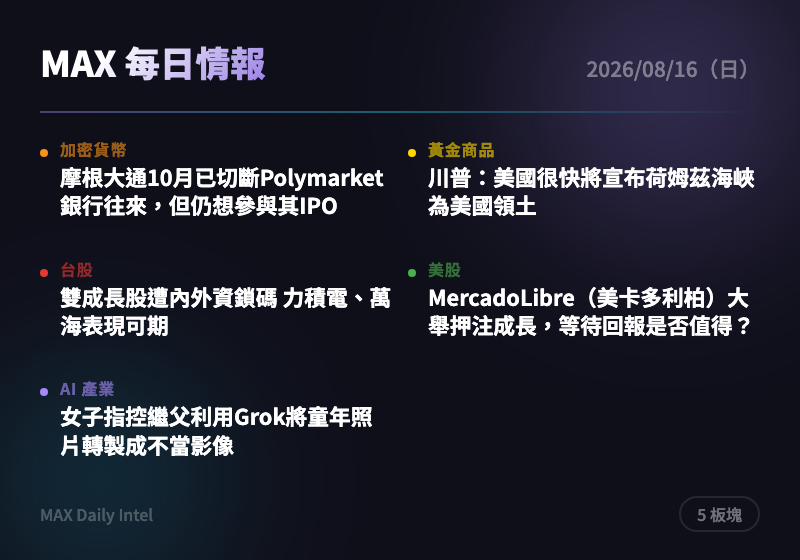
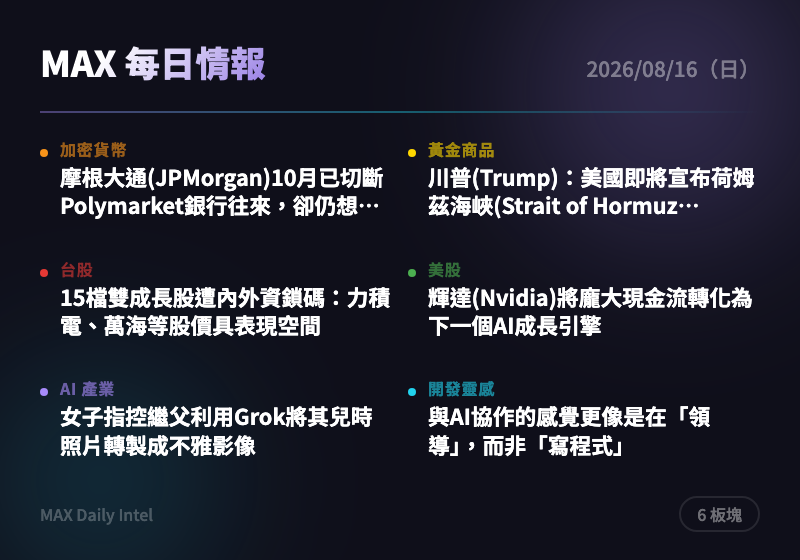
intel: 2026-08-16 每日情報自動生成

diff --git a/docs/2026-08-16.html b/docs/2026-08-16.html
@@ -295,7 +295,7 @@
     <h1>每日情報站</h1>
     <div class="date">2026 年 8 月 16 日（日）</div>
     <div class="stats">
-      <span>10 則情報</span>
+      <span>11 則情報</span>
       <span>7 大板塊</span>
     </div>
   </header>
@@ -318,15 +318,15 @@
     </div>
     <div class="news-card">
       <div class="source">The Block</div>
-      <h3><a href="https://www.theblock.co/news/business/2026-08-15-jpmorgan-cut-polymarkets-banking-ties-in-october-but-still-wants-a-role-in-a-potential-ipo-ft-411929" target="_blank" rel="noopener">摩根大通10月已切斷Polymarket銀行往來，但仍想參與其IPO</a></h3>
-      <div class="summary">英國《金融時報》報導，JPMorgan（摩根大通）去年10月已終止與預測市場平台Polymarket的銀行往來，該公司帳戶已轉往另一家未具名銀行。儘管如此，摩根大通仍表示與Polymarket維持「密切、活躍的關係」，並希望在其潛在IPO中扮演角色，反映傳統金融機構對監管風險保持謹慎但不願放棄加密新創的承銷商機。可留意Polymarket後續IPO進程及其銀行合作方是否曝光。</div>
-      <div class="tags"><span class="tag">加密貨幣</span><span class="tag">預測市場</span><span class="tag">銀行業</span><span class="tag">IPO</span></div>
+      <h3><a href="https://www.theblock.co/news/business/2026-08-15-jpmorgan-cut-polymarkets-banking-ties-in-october-but-still-wants-a-role-in-a-potential-ipo-ft-411929" target="_blank" rel="noopener">摩根大通(JPMorgan)10月已切斷Polymarket銀行往來，卻仍想參與其潛在IPO</a></h3>
+      <div class="summary">摩根大通去年10月已終止與預測市場平台Polymarket的銀行合作關係，但據FT報導，雙方仍維持「密切、活躍的關係」，且大通有意參與其未來IPO。這顯示傳統金融機構對加密/預測市場業務採取「表面切割、暗中布局」的雙軌策略，反映監管壓力與商業利益的拉扯。建議關注預測市場合法化進程及大型銀行後續動作，作為觀察TradFi與加密融合速度的指標。</div>
+      <div class="tags"><span class="tag">預測市場</span><span class="tag">銀行業</span><span class="tag">IPO</span><span class="tag">監管</span></div>
     </div>
     <div class="news-card">
-      <div class="source">CoinTelegraph</div>
-      <h3><a href="https://cointelegraph.com/news/tokenized-stock-holders-double-to-13m-as-activity-grows?utm_source=rss_feed&utm_medium=rss&utm_campaign=rss_partner_inbound" target="_blank" rel="noopener">代幣化股票持有人數月增逾一倍，月交易量暴增179%</a></h3>
-      <div class="summary">過去一個月代幣化股票持有人數達131萬人，月轉帳量激增179%至231.3億美元，分配價值也成長5.9%至23.8億美元。這顯示華爾街資產上鏈（RWA）趨勢正加速滲透，機構與散戶對鏈上證券的需求快速攀升。可關注哪些發行商（如Robinhood、Kraken等）在此波成長中受惠最大。</div>
-      <div class="tags"><span class="tag">代幣化</span><span class="tag">RWA</span><span class="tag">加密貨幣</span><span class="tag">傳統金融</span></div>
+      <div class="source">CoinDesk</div>
+      <h3><a href="https://www.coindesk.com/policy/2026/08/15/why-the-world-s-second-largest-bitcoin-mining-power-is-shutting-down-rigs-in-its-capital-city" target="_blank" rel="noopener">全球第二大比特幣挖礦重鎮首都突傳關閉礦機</a></h3>
+      <div class="summary">報導指出全球第二大比特幣算力來源國的首都城市正在關閉挖礦設備。此舉可能牽動比特幣全網算力分布與挖礦成本結構，若涉及能源政策或地緣風險，恐對礦工營運與比特幣礦股帶來壓力。建議關注後續是否為能源短缺或政策打壓所致，評估對相關礦業股（如RIOT等）的連鎖影響。</div>
+      <div class="tags"><span class="tag">比特幣</span><span class="tag">挖礦</span><span class="tag">能源政策</span><span class="tag">地緣政治</span></div>
     </div>
   </section>
 
@@ -338,15 +338,15 @@
     </div>
     <div class="news-card">
       <div class="source">ForexLive</div>
-      <h3><a href="https://investinglive.com/news/trump-pretty-soon-will-be-declaring-strait-of-hormuz-territory-of-the-us/" target="_blank" rel="noopener">川普：美國很快將宣布荷姆茲海峽為美國領土</a></h3>
-      <div class="summary">川普表示美國即將宣布荷姆茲海峽（Strait of Hormuz）為美國領土，警告伊朗若採取侵略行動將遭受百倍反擊，並稱只有美國能決定船隻能否通過該海峽、封鎖行動「無法阻擋」。此番強硬地緣政治言論可能推升油價及避險資產（黃金）需求，並加劇中東緊張情勢。建議密切關注原油價格與黃金避險買盤反應，留意事態是否進一步升溫。</div>
-      <div class="tags"><span class="tag">地緣政治</span><span class="tag">原油</span><span class="tag">黃金避險</span><span class="tag">中東局勢</span></div>
+      <h3><a href="https://investinglive.com/news/trump-pretty-soon-will-be-declaring-strait-of-hormuz-territory-of-the-us/" target="_blank" rel="noopener">川普(Trump)：美國即將宣布荷姆茲海峽(Strait of Hormuz)為其領土</a></h3>
+      <div class="summary">川普表示美國即將宣稱荷姆茲海峽為其領土，並警告若伊朗採取侵略行動，美方將以百倍力道回應，同時暗示會對伊朗展開強力經濟制裁。此言論若付諸實行，將大幅升高中東地緣政治風險，直接衝擊全球原油運輸與油價，並可能推升避險需求帶動黃金走高。建議密切關注後續美伊局勢發展，留意原油與黃金的避險資金流向。</div>
+      <div class="tags"><span class="tag">地緣政治</span><span class="tag">原油</span><span class="tag">黃金</span><span class="tag">美伊關係</span></div>
     </div>
     <div class="news-card">
       <div class="source">ForexLive</div>
-      <h3><a href="https://investinglive.com/news/us-august-prelim-umich-consumer-sentiment-51-0-vs-54-5-expected/" target="_blank" rel="noopener">美國8月密大消費者信心初值51.0，遜於預期54.5</a></h3>
-      <div class="summary">美國8月密西根大學消費者信心指數初值僅51.0，遠低於預期的54.5及前值55.2，其中現況與預期分項雙雙走弱，同時1年期通膨預期升至4.3%。市場普遍認為此調查已高度政治化、對消費支出預測力有限，但通膨預期仍可能牽動聯準會決策考量。建議將此數據視為情緒面參考而非交易主軸，重點仍放在正式零售銷售與就業數據。</div>
-      <div class="tags"><span class="tag">美國經濟</span><span class="tag">消費者信心</span><span class="tag">通膨預期</span><span class="tag">聯準會</span></div>
+      <h3><a href="https://investinglive.com/news/us-august-prelim-umich-consumer-sentiment-51-0-vs-54-5-expected/" target="_blank" rel="noopener">美國8月密西根大學(UMich)消費者信心初值降至51.0，遠低於預期54.5</a></h3>
+      <div class="summary">8月密西根大學消費者信心初值大幅不及預期，前值55.2，現況與預期分項均明顯走弱，同時1年期通膨預期升至4.3%。此數據顯示美國消費者對經濟前景轉趨悲觀，但市場普遍認為該調查已高度政治化、預測力有限，聯準會決策參考價值下降。建議不宜過度解讀單一數據，仍需搭配零售銷售與就業數據綜合判斷消費動能。</div>
+      <div class="tags"><span class="tag">消費者信心</span><span class="tag">通膨</span><span class="tag">聯準會</span><span class="tag">美國經濟</span></div>
     </div>
   </section>
 
@@ -354,19 +354,13 @@
     <div class="sector-header">
       <div class="indicator" style="background:#e53935"></div>
       <h2>&#x1f1f9;&#x1f1fc; 台股</h2>
-      <span class="badge">2 則</span>
+      <span class="badge">1 則</span>
     </div>
     <div class="news-card">
       <div class="source">經濟日報</div>
-      <h3><a href="https://money.udn.com/money/story/5607/9693969" target="_blank" rel="noopener">雙成長股遭內外資鎖碼 力積電、萬海表現可期</a></h3>
-      <div class="summary">上市櫃公司7月營收與第2季財報陸續公布，其中力積電、萬海、至上等個股同時繳出7月營收月增及第2季獲利成長的雙成長表現，並獲三大法人買超鎖碼。這類「營收獲利雙升＋法人加碼」的標的，通常代表基本面轉強且籌碼穩定，下半年續航力值得留意。可作為波段布局的優先觀察名單。</div>
-      <div class="tags"><span class="tag">台股</span><span class="tag">法人籌碼</span><span class="tag">財報</span><span class="tag">半導體</span></div>
-    </div>
-    <div class="news-card">
-      <div class="source">經濟日報</div>
-      <h3><a href="https://money.udn.com/money/story/8543/9694014" target="_blank" rel="noopener">AI伺服器鏈成長強勁 台股長線主打星浮現</a></h3>
-      <div class="summary">台股近期反彈突破季線，市場氛圍由悲觀轉為審慎樂觀，法人建議聚焦「實質獲利增長」族群，AI伺服器、半導體與高階電子零組件供應鏈仍為市場主軸。操作策略建議分批布局、拉回加碼，以時間換取產業趨勢空間，避免追高。可鎖定AI供應鏈中基本面確立轉強的個股逢低分批進場。</div>
-      <div class="tags"><span class="tag">台股</span><span class="tag">AI伺服器</span><span class="tag">半導體</span><span class="tag">投資策略</span></div>
+      <h3><a href="https://money.udn.com/money/story/5607/9693969" target="_blank" rel="noopener">15檔雙成長股遭內外資鎖碼：力積電、萬海等股價具表現空間</a></h3>
+      <div class="summary">上市櫃公司7月營收與第2季財報陸續公布，其中力積電、萬海、至上等個股同時繳出營收月增、獲利季增的「雙成長」成績單，並獲三大法人買超鎖碼，下半年獲利動能可期。此類「基本面+籌碼面」雙重支撐的個股，在台股反彈格局中具備較高的持續表現機會。建議可留意這類法人鎖碼、獲利成長明確的個股逢拉回布局。</div>
+      <div class="tags"><span class="tag">台股</span><span class="tag">法人動向</span><span class="tag">半導體</span><span class="tag">航運</span></div>
     </div>
   </section>
 
@@ -378,15 +372,15 @@
     </div>
     <div class="news-card">
       <div class="source">Yahoo Finance</div>
-      <h3><a href="https://finance.yahoo.com/markets/stocks/articles/mercadolibre-meli-bets-big-growth-221741258.html" target="_blank" rel="noopener">MercadoLibre（美卡多利柏）大舉押注成長，等待回報是否值得？</a></h3>
-      <div class="summary">拉美電商龍頭MercadoLibre持續加碼投資成長性業務，市場關注其高投入策略能否轉化為長期回報。此類報導反映拉美新興市場電商與金融科技題材仍受華爾街關注，適合作為新興市場成長股觀察指標，但需留意其資本支出對短期獲利率的壓抑效果。</div>
-      <div class="tags"><span class="tag">美股</span><span class="tag">拉美電商</span><span class="tag">MercadoLibre</span><span class="tag">成長股</span></div>
+      <h3><a href="https://finance.yahoo.com/technology/ai/articles/nvidia-turning-massive-cash-flow-154502275.html" target="_blank" rel="noopener">輝達(Nvidia)將龐大現金流轉化為下一個AI成長引擎</a></h3>
+      <div class="summary">輝達持續運用其在AI晶片領域累積的鉅額現金流，投入布局下一波AI相關成長機會，鞏固其在AI生態系中的核心地位。此舉顯示輝達不僅是AI基礎建設的供應商，更逐漸轉型為AI產業的資本配置者與生態系整合者，強化長期護城河。建議投資人關注輝達現金流動向所指向的新投資領域，作為判斷下一波AI熱點的先行指標。</div>
+      <div class="tags"><span class="tag">輝達</span><span class="tag">AI</span><span class="tag">半導體</span><span class="tag">資本配置</span></div>
     </div>
     <div class="news-card">
-      <div class="source">Yahoo Finance</div>
-      <h3><a href="https://finance.yahoo.com/markets/stocks/articles/host-hotels-hst-just-raised-215502105.html" target="_blank" rel="noopener">Host Hotels（豪斯特酒店）上調財測展望，奢華旅遊能否持續發威？</a></h3>
-      <div class="summary">酒店REIT業者Host Hotels調升財測展望，顯示高端旅遊需求維持韌性，即便總體消費數據（如密大信心指數）走弱，奢華旅遊區隔仍展現抗跌性。可作為觀察美國消費分化（高端穩健、大眾疲軟）的指標股之一。</div>
-      <div class="tags"><span class="tag">美股</span><span class="tag">REIT</span><span class="tag">旅遊消費</span><span class="tag">財測上修</span></div>
+      <div class="source">WSJ Markets</div>
+      <h3><a href="https://www.wsj.com/finance/investing/jane-street-suffers-loss-of-about-15-billion-due-to-troubles-at-situation-awareness-9be40c51?mod=rss_markets_main" target="_blank" rel="noopener">Jane Street因Situational Awareness避險基金風波，單月虧損約150億美元</a></h3>
+      <div class="summary">交易巨頭Jane Street因對沖基金Situational Awareness（由Leopold Aschenbrenner操盤）押注AI相關交易失利，導致7月創下史上最差單月表現，虧損金額高達約150億美元。此事件凸顯即使是頂尖量化交易機構，在AI主題交易中過度槓桿或集中押注仍可能面臨巨大風險，值得市場警惕AI熱潮下的過度投機行為。建議關注是否有更多機構因類似AI主題槓桿策略而爆發連鎖虧損。</div>
+      <div class="tags"><span class="tag">對沖基金</span><span class="tag">AI</span><span class="tag">量化交易</span><span class="tag">風險管理</span></div>
     </div>
   </section>
 
@@ -398,15 +392,15 @@
     </div>
     <div class="news-card">
       <div class="source">TechCrunch AI</div>
-      <h3><a href="https://techcrunch.com/2026/08/15/woman-claims-her-stepfather-used-grok-to-transform-childhood-photo-into-explicit-imagery/" target="_blank" rel="noopener">女子指控繼父利用Grok將童年照片轉製成不當影像</a></h3>
-      <div class="summary">一名女子指控其繼父使用馬斯克旗下AI工具Grok，將她的童年照片轉製成不當性影像，並痛批「AI工具正把日常生活變成兒童性剝削素材」。此事件凸顯生成式AI影像工具在內容安全防護上的重大漏洞與監管缺口，可能加速各國對AI圖像生成的立法與平台責任追究。建議關注xAI後續回應及各國監管機構是否介入調查。</div>
-      <div class="tags"><span class="tag">AI安全</span><span class="tag">監管</span><span class="tag">兒童保護</span><span class="tag">Grok</span></div>
+      <h3><a href="https://techcrunch.com/2026/08/15/woman-claims-her-stepfather-used-grok-to-transform-childhood-photo-into-explicit-imagery/" target="_blank" rel="noopener">女子指控繼父利用Grok將其兒時照片轉製成不雅影像</a></h3>
+      <div class="summary">一名女子指控其繼父使用馬斯克(Musk)旗下AI工具Grok，將她的童年照片竄改成不雅影像，並痛批AI工具正「把日常生活變成兒童性虐待素材」。此事件再度凸顯生成式AI影像工具在缺乏有效防護機制下，可能被濫用於製造兒少性剝削內容的重大風險，恐引發更嚴格的監管與訴訟壓力。建議關注各國監管機關及Grok母公司後續回應與防護措施更新。</div>
+      <div class="tags"><span class="tag">生成式AI</span><span class="tag">兒少保護</span><span class="tag">監管風險</span><span class="tag">Grok</span></div>
     </div>
     <div class="news-card">
       <div class="source">TechCrunch AI</div>
-      <h3><a href="https://techcrunch.com/2026/08/15/spacex-officially-closes-its-cursor-acquisition/" target="_blank" rel="noopener">SpaceX正式完成收購AI程式碼工具Cursor</a></h3>
-      <div class="summary">馬斯克旗下SpaceX正式完成對AI程式碼輔助新創Cursor的收購，Cursor自此成為SpaceX旗下事業。此舉顯示馬斯克版圖持續向AI基礎設施與開發工具延伸，可能將Cursor的AI編碼能力整合進SpaceX內部軟體開發流程，也反映AI程式碼工具賽道持續吸引大型科技巨頭併購整合。建議關注此收購是否影響Cursor既有企業客戶服務及獨立產品路線圖。</div>
-      <div class="tags"><span class="tag">人工智慧</span><span class="tag">併購</span><span class="tag">SpaceX</span><span class="tag">程式開發工具</span></div>
+      <h3><a href="https://techcrunch.com/2026/08/15/anthropic-shares-more-details-about-how-claudes-new-watermarks-will-work/" target="_blank" rel="noopener">Anthropic公布Claude新浮水印技術更多細節</a></h3>
+      <div class="summary">Anthropic進一步說明其為Claude新推出的浮水印技術實際運作方式，包括該技術是否能被編輯手段移除、以及對程式碼生成內容的影響。此舉呼應AI業界近期對內容溯源與防偽的重視（如Google Gemini同期也調整浮水印機制），顯示浮水印技術正成為AI廠商建立內容信任度的標準配備。建議關注此技術對企業客戶在合規與內容審計上的實際助益。</div>
+      <div class="tags"><span class="tag">Anthropic</span><span class="tag">Claude</span><span class="tag">浮水印</span><span class="tag">AI安全</span></div>
     </div>
   </section>
 
@@ -414,9 +408,20 @@
     <div class="sector-header">
       <div class="indicator" style="background:#00bcd4"></div>
       <h2>&#x1f6e0;&#xfe0f; 開發靈感</h2>
-      <span class="badge">0 則</span>
+      <span class="badge">2 則</span>
     </div>
-    <div class="empty">今日暫無相關情報</div>
+    <div class="news-card">
+      <div class="source">Hacker News Best</div>
+      <h3><a href="https://allen.bargi.org/notes/working-with-ai-feels-like-leadership/" target="_blank" rel="noopener">與AI協作的感覺更像是在「領導」，而非「寫程式」</a></h3>
+      <div class="summary">文章指出，開發者在與AI協作編程時，工作型態已從傳統「親自寫程式碼」轉變為更像「帶團隊、下指令、審核成果」的領導角色。此觀點呼應當前AI輔助開發工具快速普及下，工程師角色正從executor轉向orchestrator的產業趨勢，對團隊管理與人才培養方式帶來啟示。建議技術主管可參考此思路，重新設計團隊的AI協作SOP與人才技能發展方向。</div>
+      <div class="tags"><span class="tag">AI開發</span><span class="tag">工程管理</span><span class="tag">生產力</span><span class="tag">軟體工程</span></div>
+    </div>
+    <div class="news-card">
+      <div class="source">Hacker News Best</div>
+      <h3><a href="https://claude.com/blog/maximizing-the-value-of-your-claude-code-sessions" target="_blank" rel="noopener">如何最大化你的Claude Code Session使用價值</a></h3>
+      <div class="summary">Anthropic官方部落格文章分享如何更有效運用Claude Code的Session，提升開發效率與產出品質。此文對於已大量使用Claude Code進行日常開發與自動化派工的使用者具有直接參考價值，尤其在高熱度討論（302點、175則留言）下反映社群對此議題的高度關注。建議可對照文章內容檢視目前的Session使用習慣，尋找可優化之處。</div>
+      <div class="tags"><span class="tag">Claude Code</span><span class="tag">開發工具</span><span class="tag">生產力</span><span class="tag">Anthropic</span></div>
+    </div>
   </section>
 
 

diff --git a/docs/cards/2026-08-16-card.html b/docs/cards/2026-08-16-card.html
@@ -23,10 +23,11 @@ body{width:400px;height:280px;font-family:'Noto Sans TC',-apple-system,sans-seri
 <div class="content">
 <div class="top-row"><span class="title">MAX 每日情報</span><span class="date">2026/08/16（日）</span></div>
 <div class="divider"></div>
-<div class="grid"><div class="cell"><div class="dot" style="background:#f7931a"></div><div><div class="label" style="color:#f7931a">加密貨幣</div><div class="headline">摩根大通10月已切斷Polymarket銀行往來，但仍想參與其IPO</div></div></div>
-<div class="cell"><div class="dot" style="background:#ffd700"></div><div><div class="label" style="color:#ffd700">黃金商品</div><div class="headline">川普：美國很快將宣布荷姆茲海峽為美國領土</div></div></div>
-<div class="cell"><div class="dot" style="background:#e53935"></div><div><div class="label" style="color:#e53935">台股</div><div class="headline">雙成長股遭內外資鎖碼 力積電、萬海表現可期</div></div></div>
-<div class="cell"><div class="dot" style="background:#4caf50"></div><div><div class="label" style="color:#4caf50">美股</div><div class="headline">MercadoLibre（美卡多利柏）大舉押注成長，等待回報是否值得？</div></div></div>
-<div class="cell"><div class="dot" style="background:#a78bfa"></div><div><div class="label" style="color:#a78bfa">AI 產業</div><div class="headline">女子指控繼父利用Grok將童年照片轉製成不當影像</div></div></div></div>
-<div class="bottom-row"><span class="url">MAX Daily Intel</span><span class="badge">5 板塊</span></div>
+<div class="grid"><div class="cell"><div class="dot" style="background:#f7931a"></div><div><div class="label" style="color:#f7931a">加密貨幣</div><div class="headline">摩根大通(JPMorgan)10月已切斷Polymarket銀行往來，卻仍想…</div></div></div>
+<div class="cell"><div class="dot" style="background:#ffd700"></div><div><div class="label" style="color:#ffd700">黃金商品</div><div class="headline">川普(Trump)：美國即將宣布荷姆茲海峽(Strait of Hormuz…</div></div></div>
+<div class="cell"><div class="dot" style="background:#e53935"></div><div><div class="label" style="color:#e53935">台股</div><div class="headline">15檔雙成長股遭內外資鎖碼：力積電、萬海等股價具表現空間</div></div></div>
+<div class="cell"><div class="dot" style="background:#4caf50"></div><div><div class="label" style="color:#4caf50">美股</div><div class="headline">輝達(Nvidia)將龐大現金流轉化為下一個AI成長引擎</div></div></div>
+<div class="cell"><div class="dot" style="background:#a78bfa"></div><div><div class="label" style="color:#a78bfa">AI 產業</div><div class="headline">女子指控繼父利用Grok將其兒時照片轉製成不雅影像</div></div></div>
+<div class="cell"><div class="dot" style="background:#22d3ee"></div><div><div class="label" style="color:#22d3ee">開發靈感</div><div class="headline">與AI協作的感覺更像是在「領導」，而非「寫程式」</div></div></div></div>
+<div class="bottom-row"><span class="url">MAX Daily Intel</span><span class="badge">6 板塊</span></div>
 </div></body></html>

diff --git a/docs/index.html b/docs/index.html
@@ -151,7 +151,7 @@
     <span>&#x1f6e0;&#xfe0f; 開發靈感</span>
   </div>
 
-  <ul class="issue-list">    <li><a class="issue-card" href="2026-08-16.html"><img src="cards/2026-08-16.png" alt="2026-08-16 每日情報摘要" loading="lazy"><div class="info"><span class="date">2026/08/16（日）</span><span class="meta">10 則情報</span></div></a></li>
+  <ul class="issue-list">    <li><a class="issue-card" href="2026-08-16.html"><img src="cards/2026-08-16.png" alt="2026-08-16 每日情報摘要" loading="lazy"><div class="info"><span class="date">2026/08/16（日）</span><span class="meta">11 則情報</span></div></a></li>
     <li><a class="issue-card" href="2026-08-15.html"><img src="cards/2026-08-15.png" alt="2026-08-15 每日情報摘要" loading="lazy"><div class="info"><span class="date">2026/08/15（六）</span><span class="meta">12 則情報</span></div></a></li>
     <li><a class="issue-card" href="2026-08-14.html"><img src="cards/2026-08-14.png" alt="2026-08-14 每日情報摘要" loading="lazy"><div class="info"><span class="date">2026/08/14（五）</span><span class="meta">12 則情報</span></div></a></li>
     <li><a class="issue-card" href="2026-08-13.html"><img src="cards/2026-08-13.png" alt="2026-08-13 每日情報摘要" loading="lazy"><div class="info"><span class="date">2026/08/13（四）</span><span class="meta">12 則情報</span></div></a></li>
